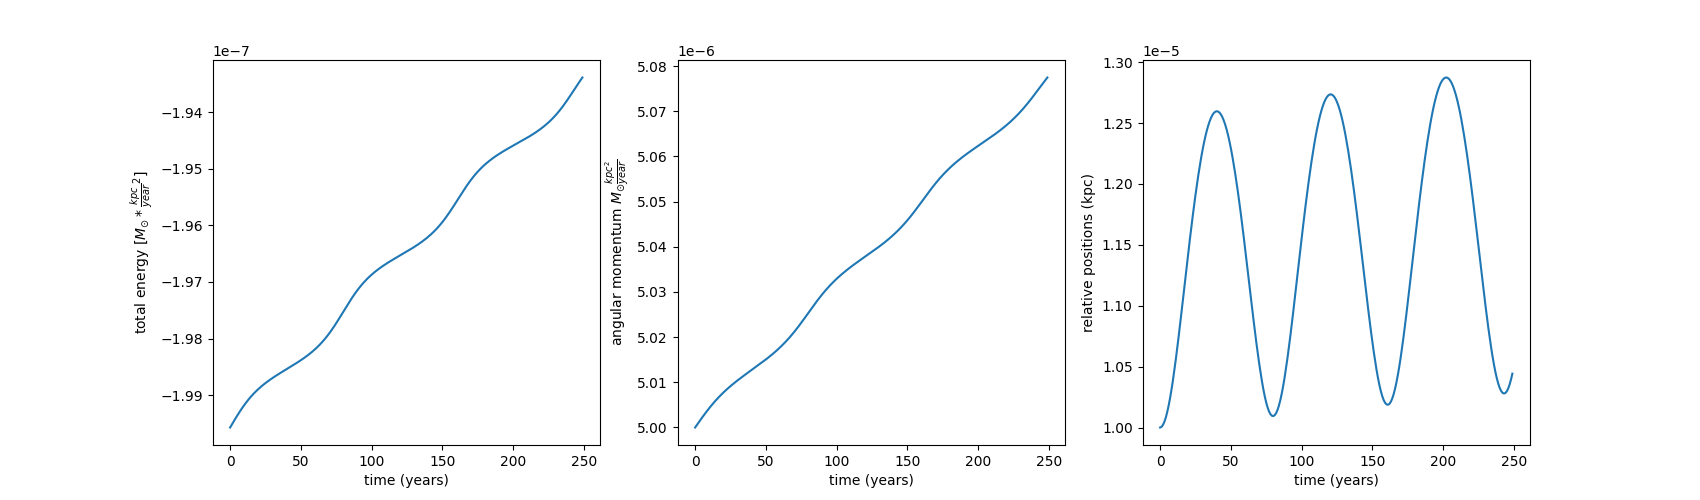
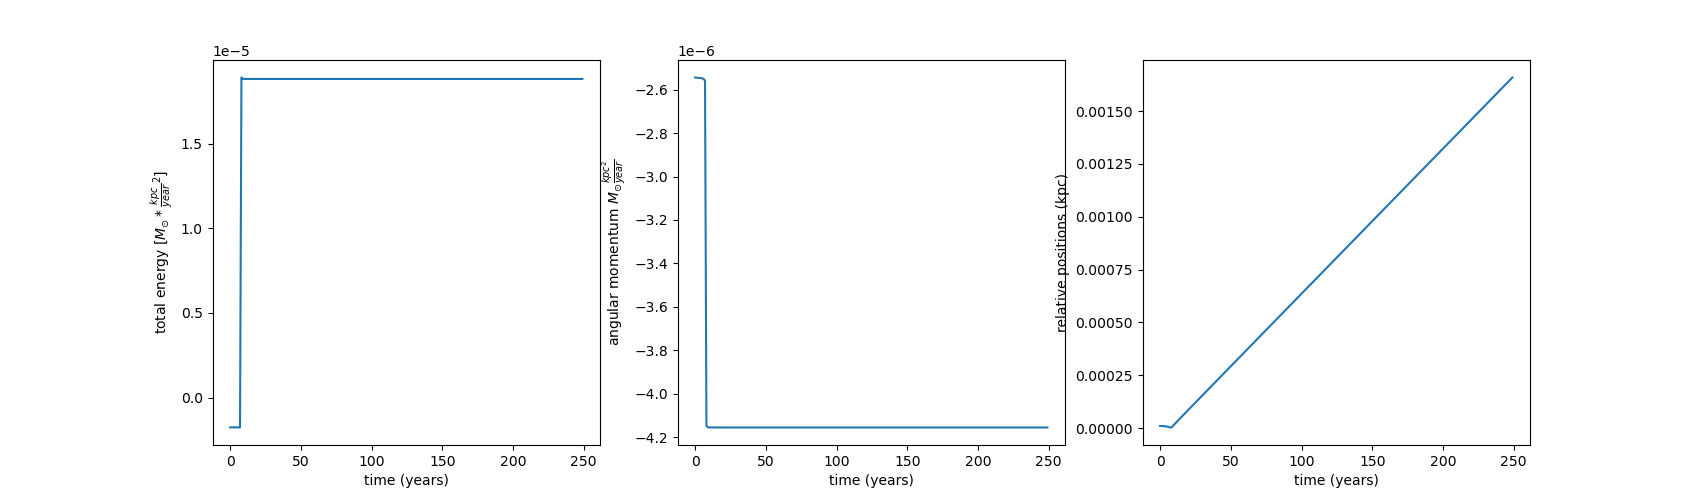
initial conditions based on bound system

diff --git a/bound_binary.py b/bound_binary.py
@@ -5,11 +5,33 @@
 import numpy as np
 import matplotlib.pyplot as plt
 from constants import G as const_G
+from constants import c as const_c
 from plot_3D import visualization
 
-m = np.array([1e6,1e6])
-r = np.array([[0,0,0],[1e-5,0,0]])
-v = np.array([[0,0,0],[0,1e-6,0]])
+# m = np.array([1e6,1e6])
+# r = np.array([[0,0,0],[1e-5,0,0]])
+# v = np.array([[0,0,0],[0,1e-6,0]])
+
+def choose_initial_condition(number_perticles=2):
+    masses = []
+    for i in range(number_perticles): masses.append(np.random.randint(1,9) * 1e6)
+    masses       = np.sort(np.array(masses))[::-1]
+    distance     = np.random.randint(1,9)   * 1e-5
+    e            = np.random.randint(10,40) * 0.01
+    print(e)
+    mu           = np.prod(masses) / np.sum(masses)
+    g_m_m_r      = const_G * np.prod(masses) / distance
+    total_energy = -0.5 * (g_m_m_r - np.sqrt(g_m_m_r**2 + mu*const_G**2*(e**2-1)/distance**2))
+    v1           = np.sqrt((2*masses[1])/(masses[0]*np.sum(masses)) * (total_energy + (const_G * np.prod(masses)) / distance))
+    velocities   = np.array([[0,-(-masses[1]/masses[0])*v1,0],[0,v1,0]])
+    positions    = np.array([[masses[1]/np.sum(masses)*distance,0,0],[-masses[0]/np.sum(masses)*distance,0,0]])
+    angular_mom  = mu*distance*v1*(1+masses[0]/masses[1])
+    print('eccentricity: ', np.sqrt(1 + 2*total_energy*angular_mom**2 / const_G**2*mu**2))
+    return masses, positions, velocities
+    
+
+
+m, r, v = choose_initial_condition()
 
 def center_of_mass(masses, positions,velocities):
     """
@@ -118,7 +140,7 @@ for s in range(step):   # Iterate through each time step
     position = evolve_position(position, velocity)             # Update position based on the current velocity
     velocity = velocity_temp
 
-visualization(position=position_matrix_binary, lim_bound=(0,3e-5))
+# visualization(position=position_matrix_binary, lim_bound=(0,3e-5))
 
 fig,axes = plt.subplots(1, 3, figsize=(17,5))
 time = np.array([i for i in range(len(energy_list))])
@@ -140,3 +162,4 @@ ax.set_xlabel("time (years)")
 ax.set_ylabel("relative positions (kpc)")
 
 plt.savefig("binary_conserved.png")
+print('Done!')

diff --git a/constants.py b/constants.py
@@ -18,3 +18,6 @@ ureg.define('solar_mass = 1.98847e30 * kilogram')
 G = 6.67*10**-11 * ureg.m**3/(ureg.kg*ureg.s**2)
 G = G.to(ureg.kpc**3/(ureg.solar_masss*ureg.yr**2))
 G = G.magnitude
+
+c = 3.8*10**8 * ureg.m/(ureg.s)
+c = c.magnitude
